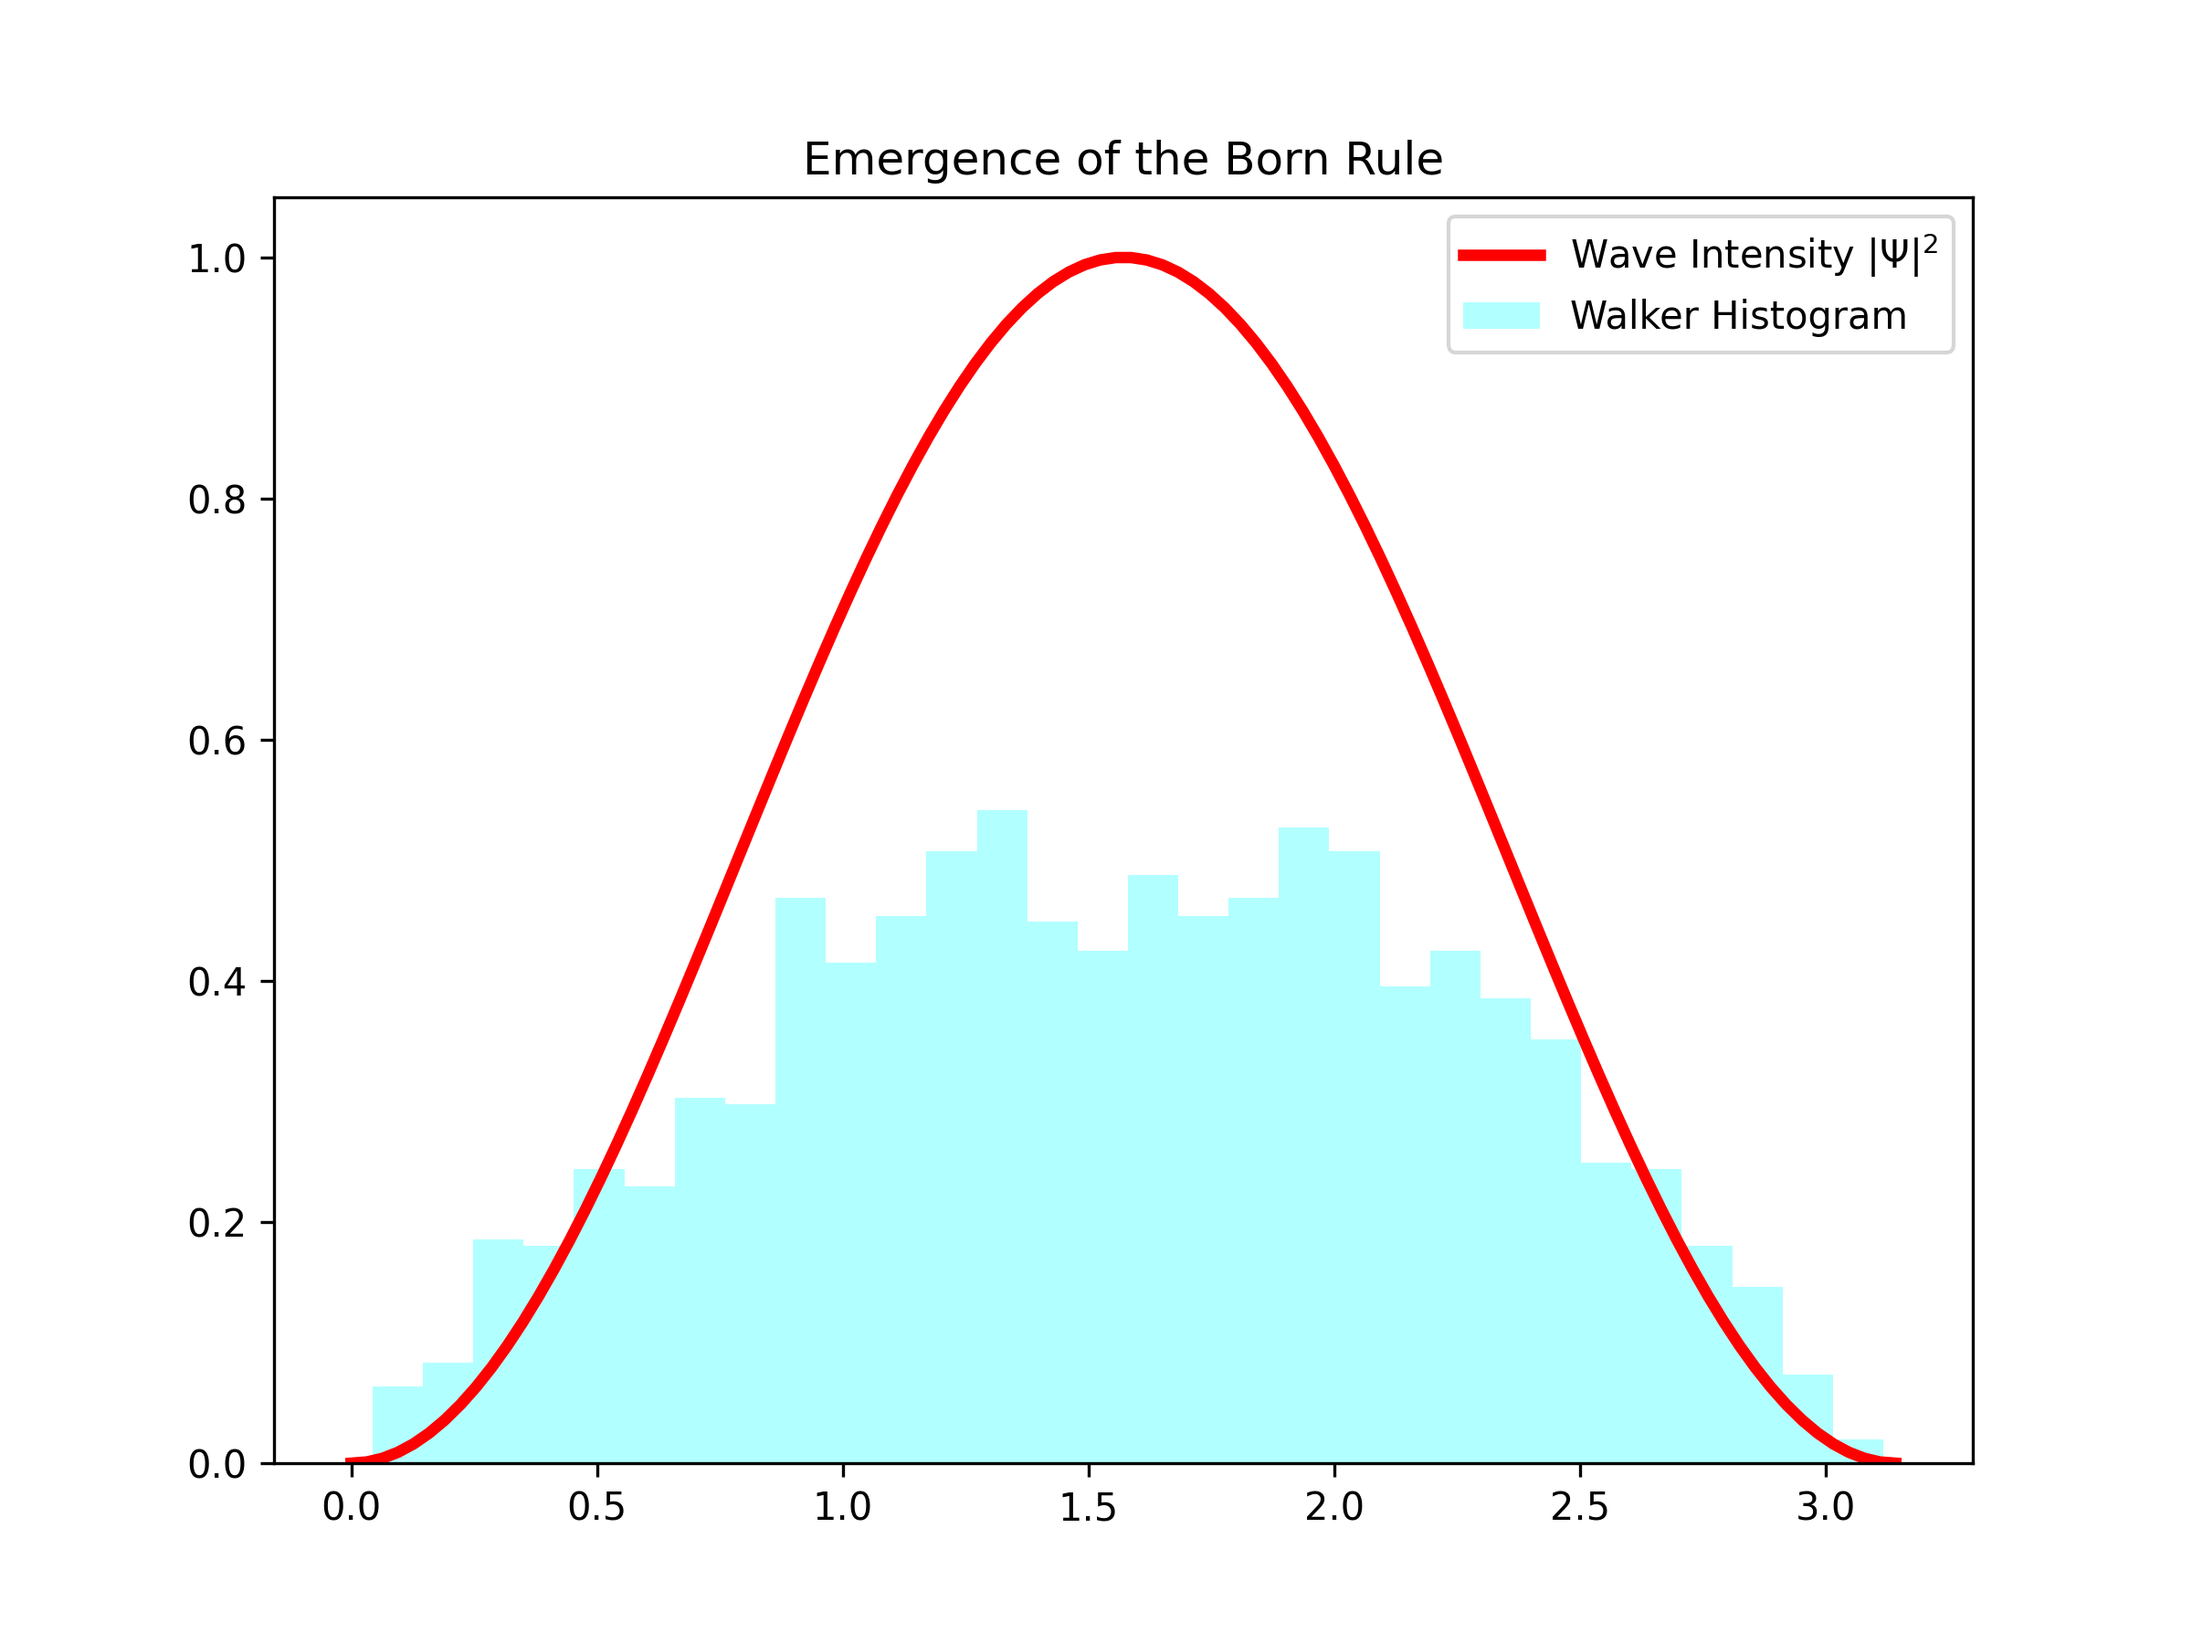
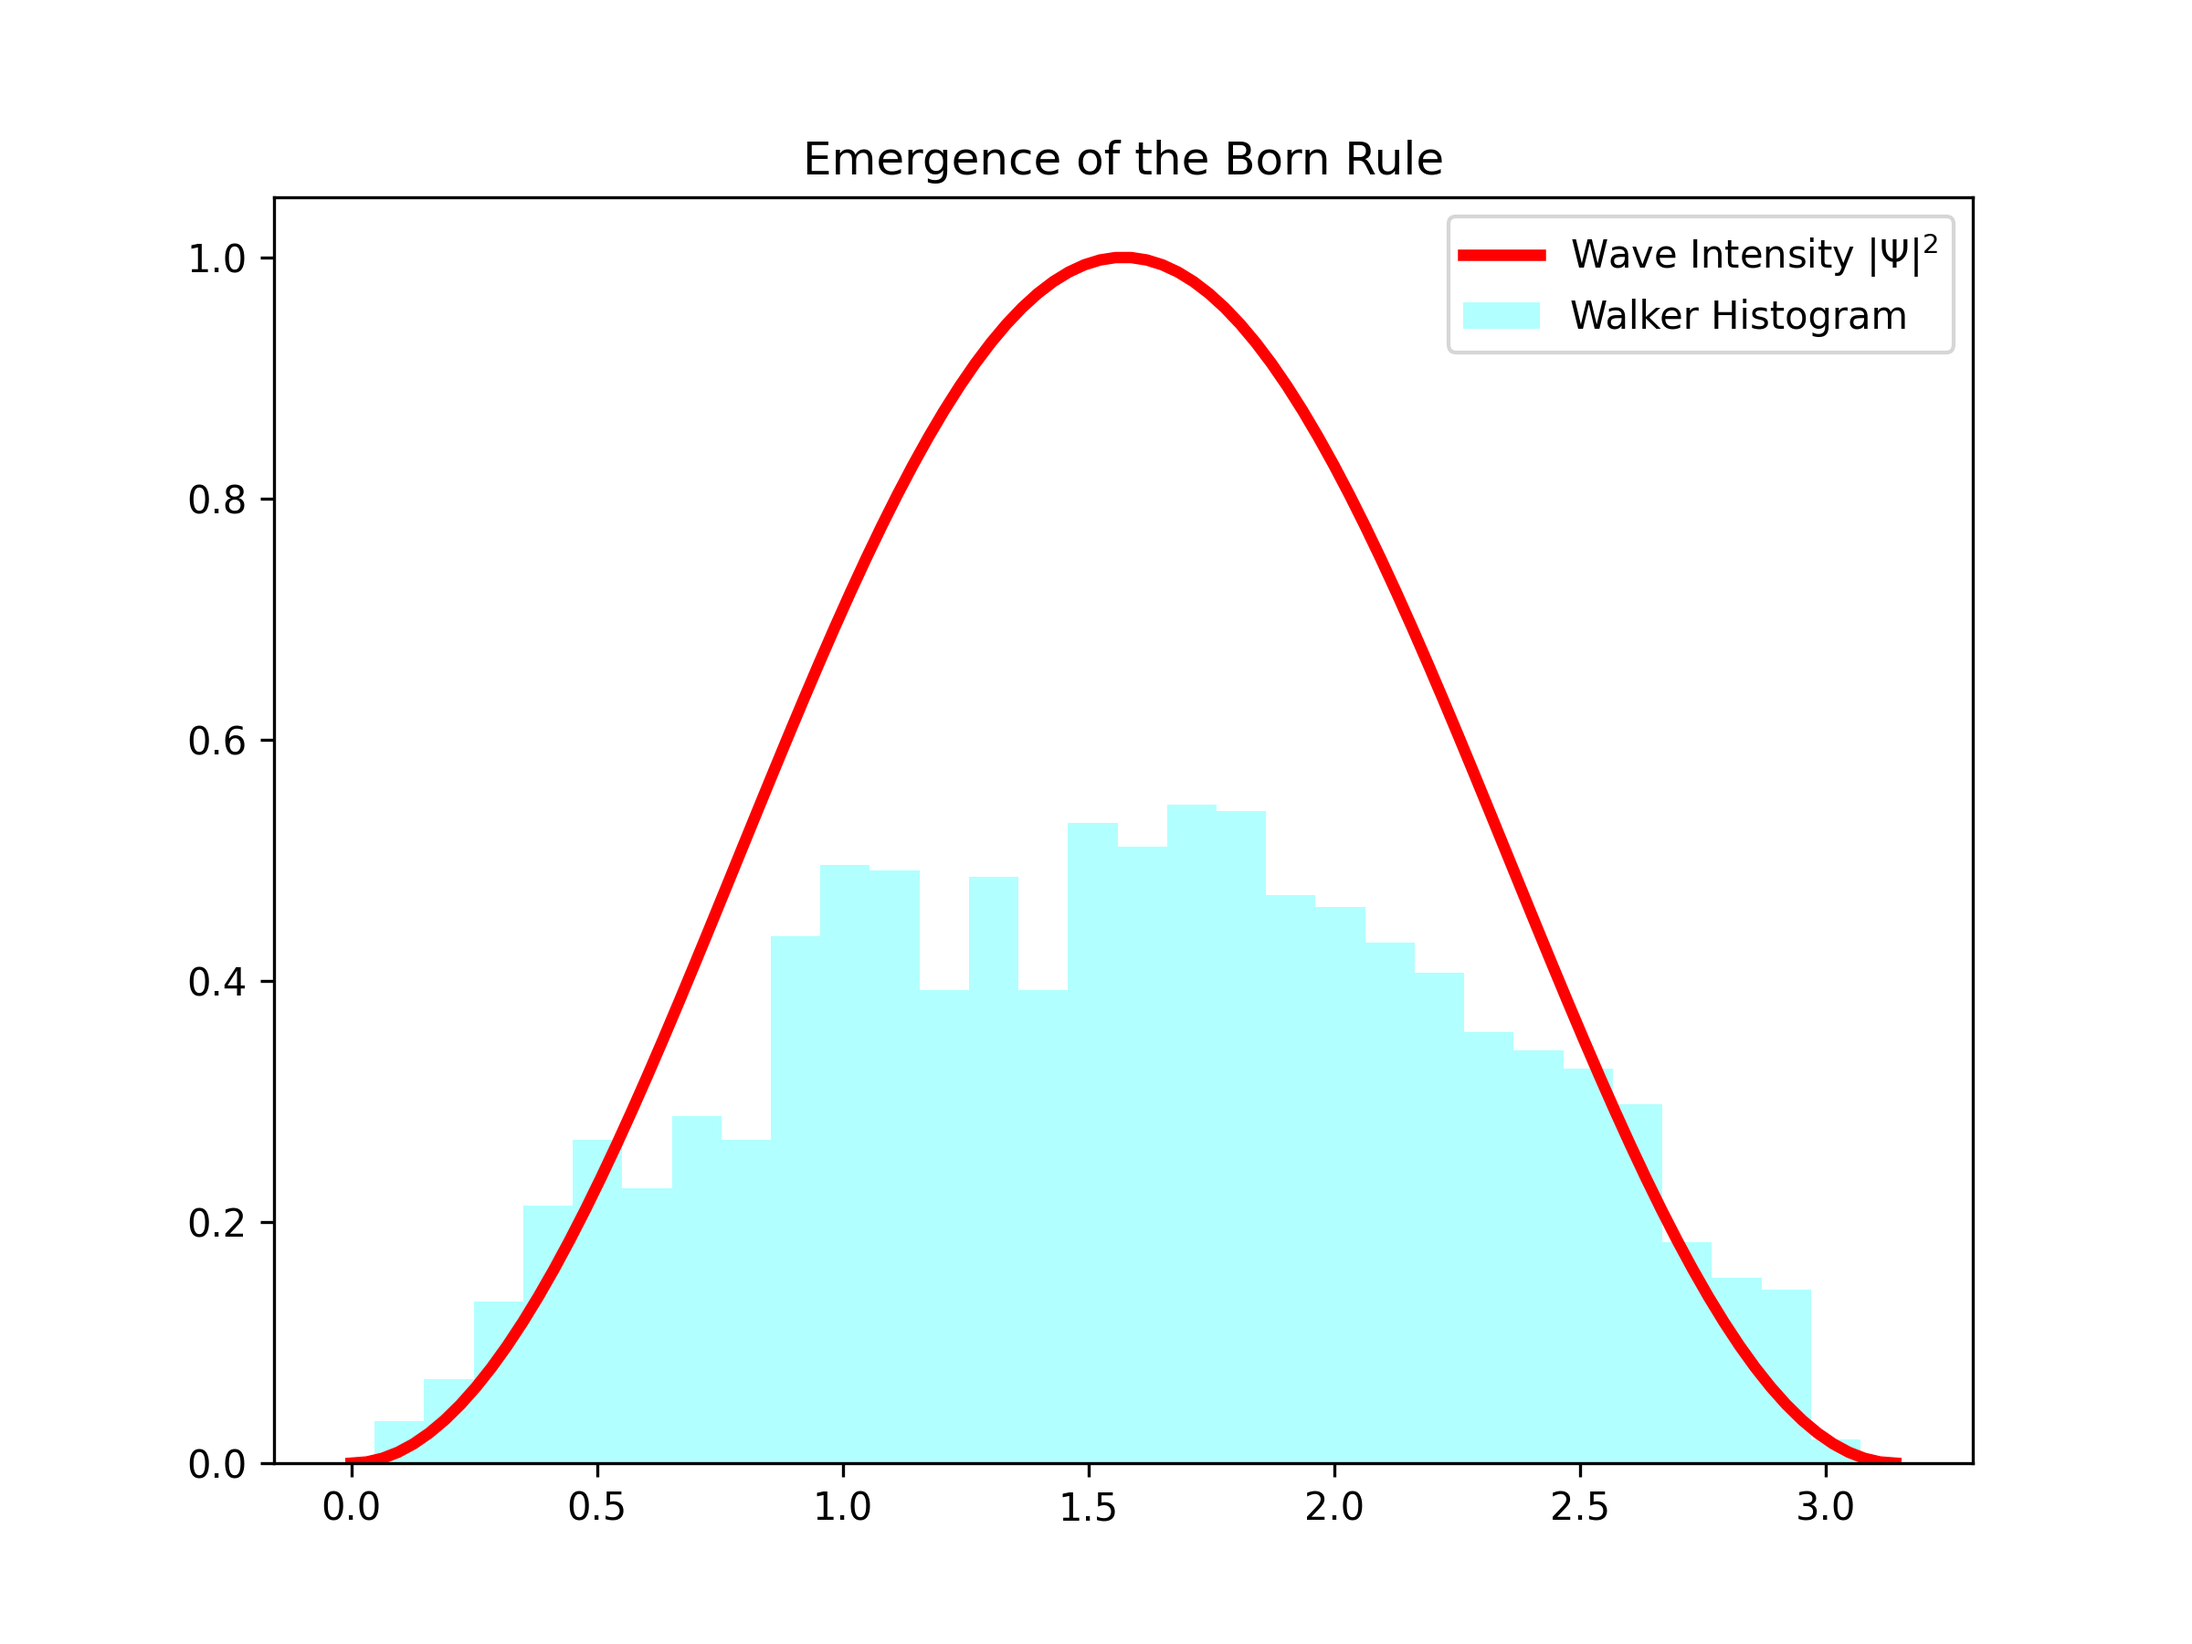
Update assets and add create_file.py script
- Update born_rule.png and gravitational_double_slit.png assets
- Remove sim_a_refraction simulation files
- Add create_file.py utility script

diff --git a/create_file.py b/create_file.py
@@ -1,0 +1,55 @@
+import os
+
+sim_a_code = r"""import numpy as np
+import matplotlib.pyplot as plt
+
+def run_strain_sim():
+    print("LCT Simulation A: Metric Elasticity (Gravity as Strain)")
+    
+    # 1. Grid Setup
+    x = np.linspace(-10, 10, 200)
+    y = np.linspace(-10, 10, 200)
+    X, Y = np.meshgrid(x, y)
+    
+    # 2. Define Mass Source
+    # Mass at (0,0) creates a stress load on the lattice
+    R = np.sqrt(X**2 + Y**2)
+    
+    # 3. Calculate Strain Field (Epsilon)
+    # Strain decays as 1/R from the source. 
+    # We add a small regularization term (+1.0) to avoid infinity at R=0
+    Strain = 1.0 / (R + 1.0)
+    
+    # 4. Plot
+    plt.figure(figsize=(8, 6))
+    
+    # Plot the Strain Intensity (Heatmap)
+    # Viridis colormap: Yellow = High Strain (Time Dilation), Purple = Low Strain (Flat Space)
+    plt.pcolormesh(X, Y, Strain, shading='auto', cmap='viridis')
+    plt.colorbar(label=r'Metric Strain $\epsilon$ (Effective Shapiro Delay)')
+    
+    # Add contour lines to visualize "Equipotential" surfaces
+    plt.contour(X, Y, Strain, colors='white', alpha=0.3)
+    
+    plt.title("Effective Metric Elasticity (Gravity)")
+    plt.xlabel("x (Lattice Nodes)")
+    plt.ylabel("y (Lattice Nodes)")
+    
+    # Annotate
+    plt.text(0, 0, "Mass Load", color='white', ha='center', fontweight='bold')
+    plt.arrow(5, 5, -2, -2, color='white', head_width=0.3)
+    # Use raw string for newlines to avoid syntax errors
+    plt.text(5.5, 5.5, "Lattice Dilation\n(Signal Slows Down)", color='white')
+    
+    plt.show()
+
+if __name__ == "__main__":
+    run_strain_sim()
+"""
+
+# Write the file
+file_path = os.path.join('simulations', 'sim_a_metric_strain.py')
+with open(file_path, 'w') as f:
+    f.write(sim_a_code)
+
+print(f"Successfully fixed and created: {file_path}")
